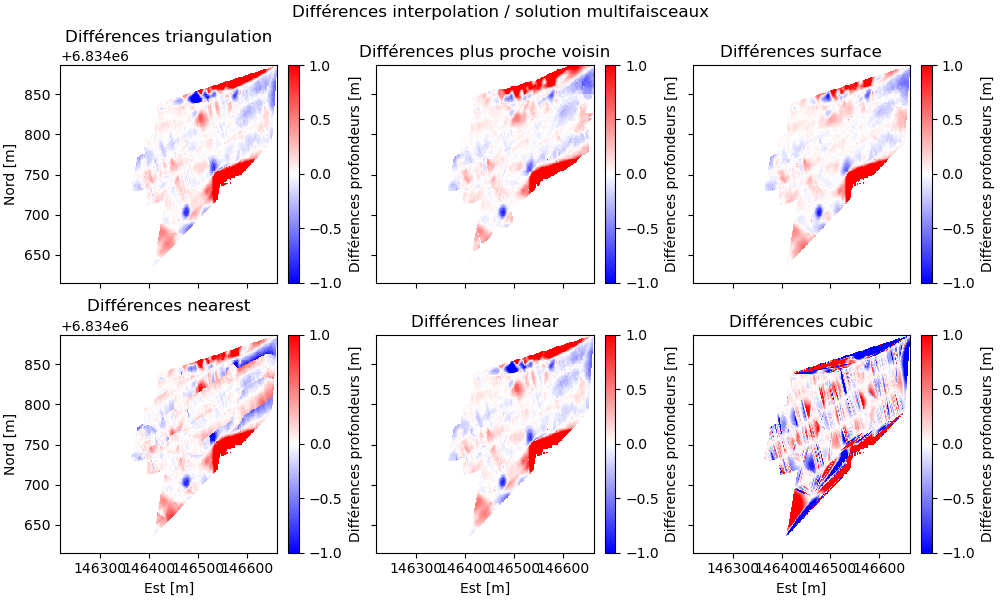
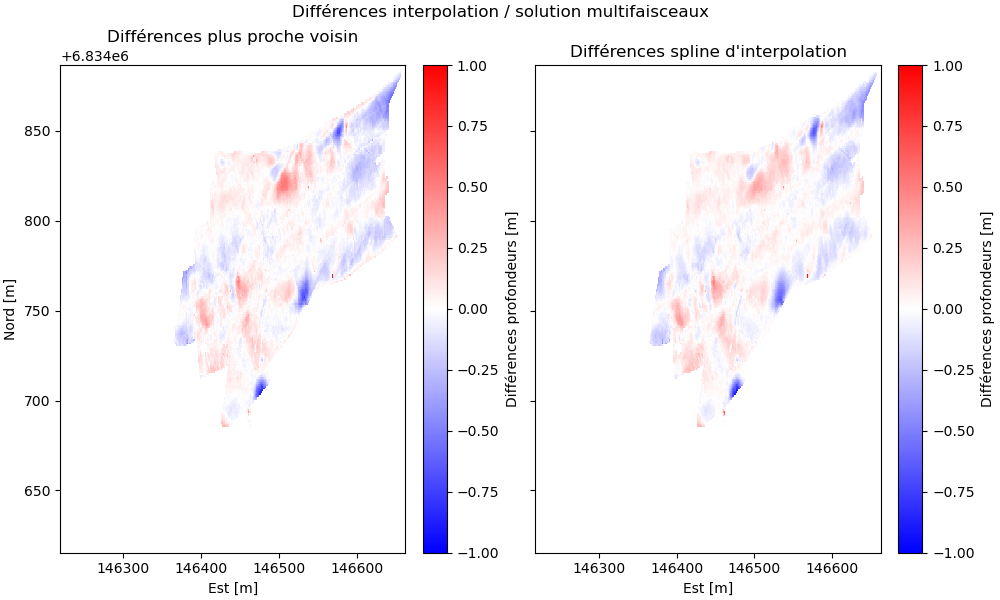
me

diff --git a/SBES/interpolationGRIDDATA.py b/SBES/interpolationGRIDDATA.py
@@ -57,6 +57,44 @@ def interpolate(interpolateur, pts, multifaisceaux):
 
     return interpolation, echantillon.x.values, echantillon.y.values, Z_multi
 
+def stats_nearneighbour(pts, multifaisceaux):
+    PAS_GRILLE = 1
+    bornes = pygmt.info(pts, spacing=PAS_GRILLE)
+    PAS_GRILLE = 1
+    secteurs = [2, 3, 4, 8]
+    rayon = 35
+    # Pour choper le sol uniquement
+    interpolation_cub, X, Y, sol = interpolate(interpolation_cubic, pts, multifaisceaux)
+    for secteur in secteurs:
+        inter_neigbour = pygmt.nearneighbor(data=pts, spacing=PAS_GRILLE, region=bornes, search_radius=rayon,
+                                            sectors=secteur)
+        interpolation_stat_neigh = inter_neigbour.values[~np.isnan(inter_neigbour.values)]
+        sol_stat_neigh = sol[~np.isnan(inter_neigbour.values)]
+        me_neigh, stde_neigh, rmse_neigh = statistiques(interpolation_stat_neigh, sol_stat_neigh)
+        print("______________statistique pour un secteur de {}______________".format(secteur))
+        print(f'Erreur moyenne : {me_neigh:.3f}m')
+        print(f'Écart-type : {stde_neigh:.3f}m')
+        print(f'RMSE : {rmse_neigh:.3f}m')
+def stats_nearneighbour2(pts, multifaisceaux):
+    PAS_GRILLE = 1
+    bornes = pygmt.info(pts, spacing=PAS_GRILLE)
+    PAS_GRILLE = 1
+    secteurs = 8
+    rayon = 35
+    nbr_secteurs_a_remplir = ['+m4', '+m6', '+m8']
+    # Pour choper le sol uniquement
+    interpolation_cub, X, Y, sol = interpolate(interpolation_cubic, pts, multifaisceaux)
+    for e in nbr_secteurs_a_remplir:
+
+        inter_neigbour = pygmt.nearneighbor(data=pts, spacing=PAS_GRILLE, region=bornes, search_radius=rayon,
+                                            sectors=str(secteurs)+e)
+        interpolation_stat_neigh = inter_neigbour.values[~np.isnan(inter_neigbour.values)]
+        sol_stat_neigh = sol[~np.isnan(inter_neigbour.values)]
+        me_neigh, stde_neigh, rmse_neigh = statistiques(interpolation_stat_neigh, sol_stat_neigh)
+        print("______________statistique avec +{}______________".format(e))
+        print(f'Erreur moyenne : {me_neigh:.3f}m')
+        print(f'Écart-type : {stde_neigh:.3f}m')
+        print(f'RMSE : {rmse_neigh:.3f}m')
 
 def stats(pts, multifaisceaux):
     #HEADLINE
@@ -76,11 +114,14 @@ def stats(pts, multifaisceaux):
     bornes = pygmt.info(pts, spacing=PAS_GRILLE)
     inter_tri = pygmt.triangulate.regular_grid(data=pts, spacing=PAS_GRILLE, region=bornes)
     inter_neigbour = pygmt.nearneighbor(data=pts, spacing=PAS_GRILLE, region=bornes, search_radius=rayon,
-                                        sectors=secteur)
+                                        sectors=str(secteur) + '+m6')
     df = pygmt.blockmean(data=pts, region=bornes, spacing=PAS_GRILLE)
     inter_surface = pygmt.surface(data=df, spacing=PAS_GRILLE, region=bornes, T=0.35, verbose="i")
-    inter_surface.values[np.isnan(inter_tri)] = np.nan
-    interpolation_near[np.isnan(inter_tri)] = np.nan
+    inter_surface.values[np.isnan(inter_neigbour)] = np.nan
+    interpolation_near[np.isnan(inter_neigbour)] = np.nan
+    inter_tri.values[np.isnan(inter_neigbour)] = np.nan
+    interpolation_cub[np.isnan(inter_neigbour)] = np.nan
+    interpolation_lin[np.isnan(inter_neigbour)] = np.nan
 
     ##Affichage
     #plt.figure()
@@ -288,40 +329,40 @@ def stats(pts, multifaisceaux):
     plt.figure()
     names = ['triangulation', 'nearneighbor', 'surface', 'nearest', 'linear', 'cubic']
     plt.boxplot([diff_tri, diff_neigh, diff_surf, difference_near, difference_lin, difference_cub], labels=names, showfliers=False)
-    plt.title("Comparaison des boxplots des méthodes d'interpolations avec les données multifaisceaux")
+    plt.title("Comparaison des boîtes à moustaches des méthodes d'interpolations avec les données multifaisceaux")
     plt.savefig('comparaison_interpolateur/comparaison_interpolateur_boite_moustache.png')
     plt.show()
     # Histogramme
-    fig, axes = plt.subplots(2, 3, sharex=True, sharey=True)
-    axes[0, 0].hist(difference_lin, bins=50, density=True)
+    fig, axes = plt.subplots(1, 3, sharex=True, sharey=True)
+    #axes[0, 0].hist(difference_lin, bins=50, density=True)
+    #plt.xlabel('Différences de profondeurs [m]')
+    #plt.ylabel('Densité')
+    #axes[0, 0].set_title('griddata, {}'.format(retrieve_name(interpolation_linear)))
+#
+    #axes[0, 1].hist(difference_near, bins=50, density=True)
+    #plt.xlabel('Différences de profondeurs [m]')
+    #plt.ylabel('Densité')
+    #axes[0, 1].set_title('griddata, {}'.format(retrieve_name(interpolation_nearest)))
+#
+    #axes[0, 2].hist(difference_cub, bins=50, density=True)
+    #plt.xlabel('Différences de profondeurs [m]')
+    #plt.ylabel('Densité')
+    #axes[0, 2].set_title('griddata, {}'.format(retrieve_name(interpolation_cubic)))
+    axes[0].hist(diff_tri, bins=50, density=True)
     plt.xlabel('Différences de profondeurs [m]')
     plt.ylabel('Densité')
-    axes[0, 0].set_title('griddata, {}'.format(retrieve_name(interpolation_linear)))
-
-    axes[0, 1].hist(difference_near, bins=50, density=True)
+    axes[0].set_title("Linéaire (triangulation)")
+#
+    axes[1].hist(diff_neigh, bins=50, density=True)
     plt.xlabel('Différences de profondeurs [m]')
     plt.ylabel('Densité')
-    axes[0, 1].set_title('griddata, {}'.format(retrieve_name(interpolation_nearest)))
-
-    axes[0, 2].hist(difference_cub, bins=50, density=True)
+    axes[1].set_title('Voisinages proches')
+#
+    axes[2].hist(diff_surf, bins=50, density=True)
     plt.xlabel('Différences de profondeurs [m]')
     plt.ylabel('Densité')
-    axes[0, 2].set_title('griddata, {}'.format(retrieve_name(interpolation_cubic)))
-    axes[1,0].hist(diff_tri, bins=50, density=True)
-    plt.xlabel('Différences de profondeurs [m]')
-    plt.ylabel('Densité')
-    axes[1,0].set_title('gmt, {}'.format(retrieve_name(diff_tri)))
-
-    axes[1,1].hist(diff_neigh, bins=50, density=True)
-    plt.xlabel('Différences de profondeurs [m]')
-    plt.ylabel('Densité')
-    axes[1,1].set_title('gmt, {}'.format(retrieve_name(diff_neigh)))
-
-    axes[1,2].hist(diff_surf, bins=50, density=True)
-    plt.xlabel('Différences de profondeurs [m]')
-    plt.ylabel('Densité')
-    axes[1,2].set_title('gmt, {}'.format(retrieve_name(diff_surf)))
-    plt.suptitle("Histogrammes méthodes griddata ")
+    axes[2].set_title("Spline d'interpolation")
+    plt.suptitle("Histogrammes")
     plt.savefig('comparaison_interpolateur/Histogrammes.png')
     plt.show()
 
@@ -333,27 +374,27 @@ def stats(pts, multifaisceaux):
     diff_neighbor = inter_neigbour - sol
     diff_surface = inter_surface - sol
     cmap = 'bwr'
-    fig, ax = plt.subplots(2, 3, figsize=(10, 6), constrained_layout=True)
+    fig, ax = plt.subplots(1, 2, figsize=(10, 6), constrained_layout=True)
     # Normalisation avec définition du demi-intervalle
     normalize1 = CenteredNorm(0, halfrange=1)
-    c1 = ax[0, 0].pcolor(X, Y, diff_tri, cmap=cmap, norm=normalize1)
-    ax[0, 0].set(title='Différences triangulation')
-    plt.colorbar(c1, label='Différences profondeurs [m]', ax=ax[0, 0])
-    c2 = ax[0, 1].pcolor(X, Y, diff_neighbor, cmap=cmap, norm=normalize1)
-    ax[0, 1].set(title='Différences plus proche voisin')
-    plt.colorbar(c2, label='Différences profondeurs [m]', ax=ax[0, 1])
-    c31 = ax[0, 2].pcolor(X, Y, diff_surface, cmap=cmap, norm=normalize1)
-    ax[0, 2].set(title='Différences surface')
-    plt.colorbar(c31, label='Différences profondeurs [m]', ax=ax[0, 2])
-    c12 = ax[1,0].pcolor(X, Y, difference_n, cmap=cmap, norm=normalize1)
-    ax[1,0].set(title='Différences nearest')
-    plt.colorbar(c12, label='Différences profondeurs [m]', ax=ax[1, 0])
-    c22 = ax[1,1].pcolor(X, Y, difference_l, cmap=cmap, norm=normalize1)
-    ax[1,1].set(title='Différences linear')
-    plt.colorbar(c22, label='Différences profondeurs [m]', ax=ax[1, 1])
-    c32 = ax[1, 2].pcolor(X, Y, difference_c, cmap=cmap, norm=normalize1)
-    ax[1,2].set(title='Différences cubic')
-    plt.colorbar(c32, label='Différences profondeurs [m]', ax=ax[1,2])
+    #c1 = ax[0, 0].pcolor(X, Y, diff_tri, cmap=cmap, norm=normalize1)
+    #ax[0, 0].set(title='Différences triangulation')
+    #plt.colorbar(c1, label='Différences profondeurs [m]', ax=ax[0, 0])
+    c2 = ax[0].pcolor(X, Y, diff_neighbor, cmap=cmap, norm=normalize1)
+    ax[0].set(title='Différences plus proche voisin')
+    plt.colorbar(c2, label='Différences profondeurs [m]', ax=ax[0])
+    c31 = ax[1].pcolor(X, Y, diff_surface, cmap=cmap, norm=normalize1)
+    ax[1].set(title="Différences spline d'interpolation")
+    plt.colorbar(c31, label='Différences profondeurs [m]', ax=ax[1])
+    #c12 = ax[1,0].pcolor(X, Y, difference_n, cmap=cmap, norm=normalize1)
+    #ax[1,0].set(title='Différences nearest')
+    #plt.colorbar(c12, label='Différences profondeurs [m]', ax=ax[1, 0])
+    #c22 = ax[1,1].pcolor(X, Y, difference_l, cmap=cmap, norm=normalize1)
+    #ax[1,1].set(title='Différences linear')
+    #plt.colorbar(c22, label='Différences profondeurs [m]', ax=ax[1, 1])
+    #c32 = ax[1, 2].pcolor(X, Y, difference_c, cmap=cmap, norm=normalize1)
+    #ax[1,2].set(title='Différences cubic')
+    #plt.colorbar(c32, label='Différences profondeurs [m]', ax=ax[1,2])
     plt.suptitle('Différences interpolation / solution multifaisceaux')
     for axe in ax.flat:
         axe.set(xlabel='Est [m]', ylabel='Nord [m]')
